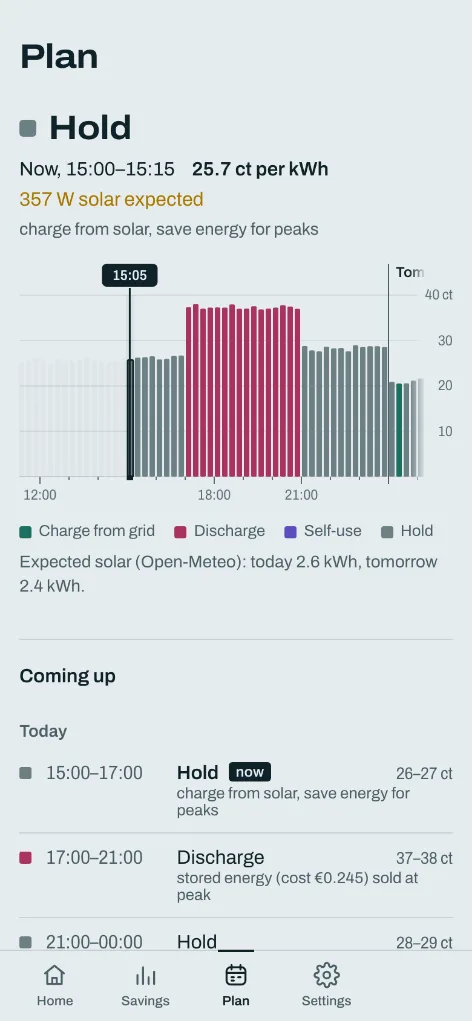
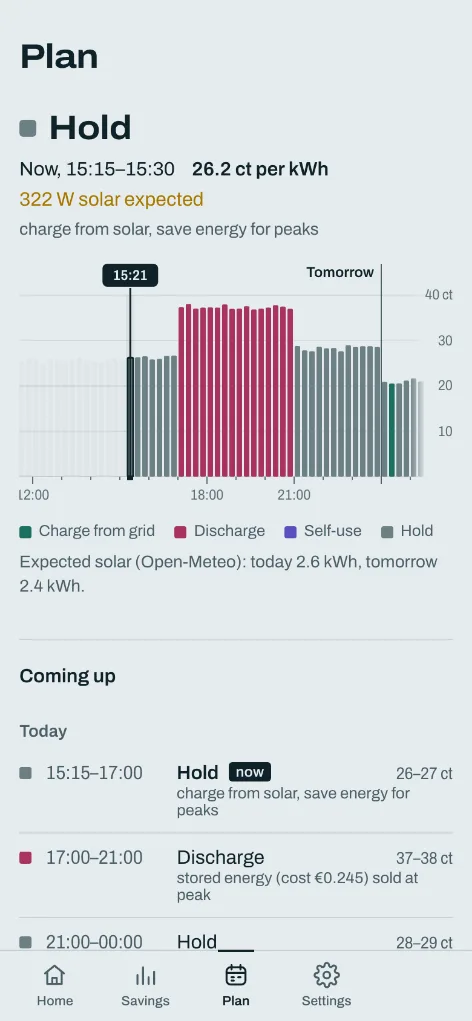
Plan chart: keep the day label clear of the price axis
When the midnight line sits near the right edge, "Tomorrow" ran under the
price axis and showed as "Tom". The label now goes to the left of its line
while it would be covered, and back to the right once scrolled into view.
The website's plan screenshots are recaptured with the fix.

diff --git a/app/components/PriceChart.vue b/app/components/PriceChart.vue
@@ -1,7 +1,7 @@
 <template>
   <div class="price-chart">
     <div
-      ref="scroller" class="scroller" tabindex="0" role="group" :aria-label="aria"
+      ref="scroller" class="scroller" tabindex="0" role="group" :aria-label="aria" @scroll.passive="scrollX = scroller!.scrollLeft"
       @keydown.left.prevent="step(-1)" @keydown.right.prevent="step(1)" @keydown.home.prevent="emit('update:modelValue', nowIndex)"
     >
       <svg v-if="cw" :width="width" :height="H" @click="pick">
@@ -19,7 +19,7 @@
         <!-- day boundaries -->
         <g v-for="md in midnights" :key="md.x" class="day">
           <line :x1="md.x" :x2="md.x" :y1="4" :y2="PB + 6" />
-          <text :x="md.x + 6" :y="15">{{ md.label }}</text>
+          <text :x="md.flip ? md.x - 6 : md.x + 6" :y="15" :text-anchor="md.flip ? 'end' : 'start'">{{ md.label }}</text>
         </g>
         <text v-if="showTodayLabel" x="2" y="15" class="day-t">{{ m.day.today }}</text>
 
@@ -67,6 +67,7 @@ const AXIS = 36
 
 const scroller = ref<HTMLElement>()
 const cw = ref(0)
+const scrollX = ref(0)
 let ro: ResizeObserver | undefined
 onMounted(() => {
   ro = new ResizeObserver(([e]) => (cw.value = Math.round(e!.contentRect.width)))
@@ -113,7 +114,13 @@ const midnights = computed(() =>
   props.slots
     .map((s, i) => ({ d: new Date(s.slotStart), i }))
     .filter(({ d, i }) => i > 0 && d.getHours() === 0 && d.getMinutes() === 0)
-    .map(({ d, i }) => ({ x: i * slotW.value, label: dayName(d) })),
+    .map(({ d, i }) => {
+      const x = i * slotW.value
+      const label = dayName(d)
+      // A label that would run under the price axis goes to the left of its line (about 7 px per character)
+      const flip = x + 6 + label.length * 7 > scrollX.value + cw.value - AXIS && x - 6 - label.length * 7 > scrollX.value
+      return { x, label, flip }
+    }),
 )
 // "Today" at the far left, unless the now tag sits on top of it
 const showTodayLabel = computed(() => xNow.value > 90 || nowIndex.value < 0)
